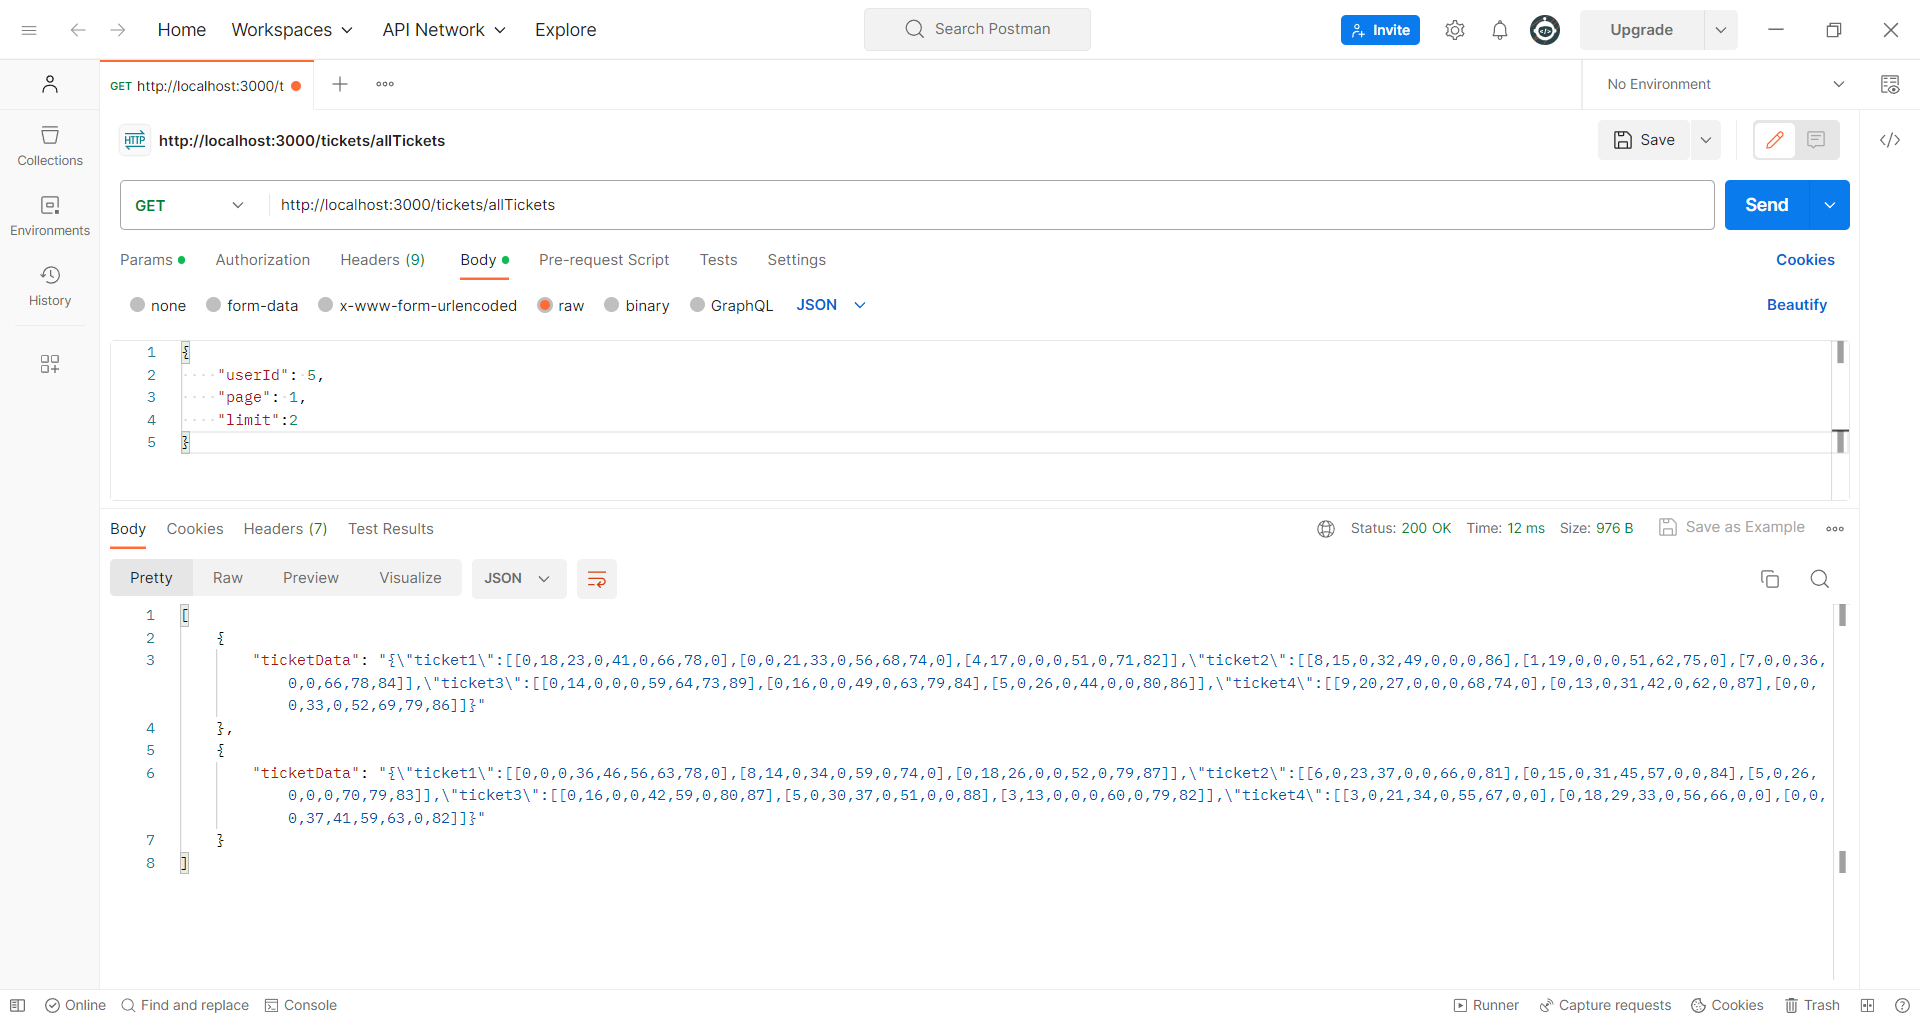
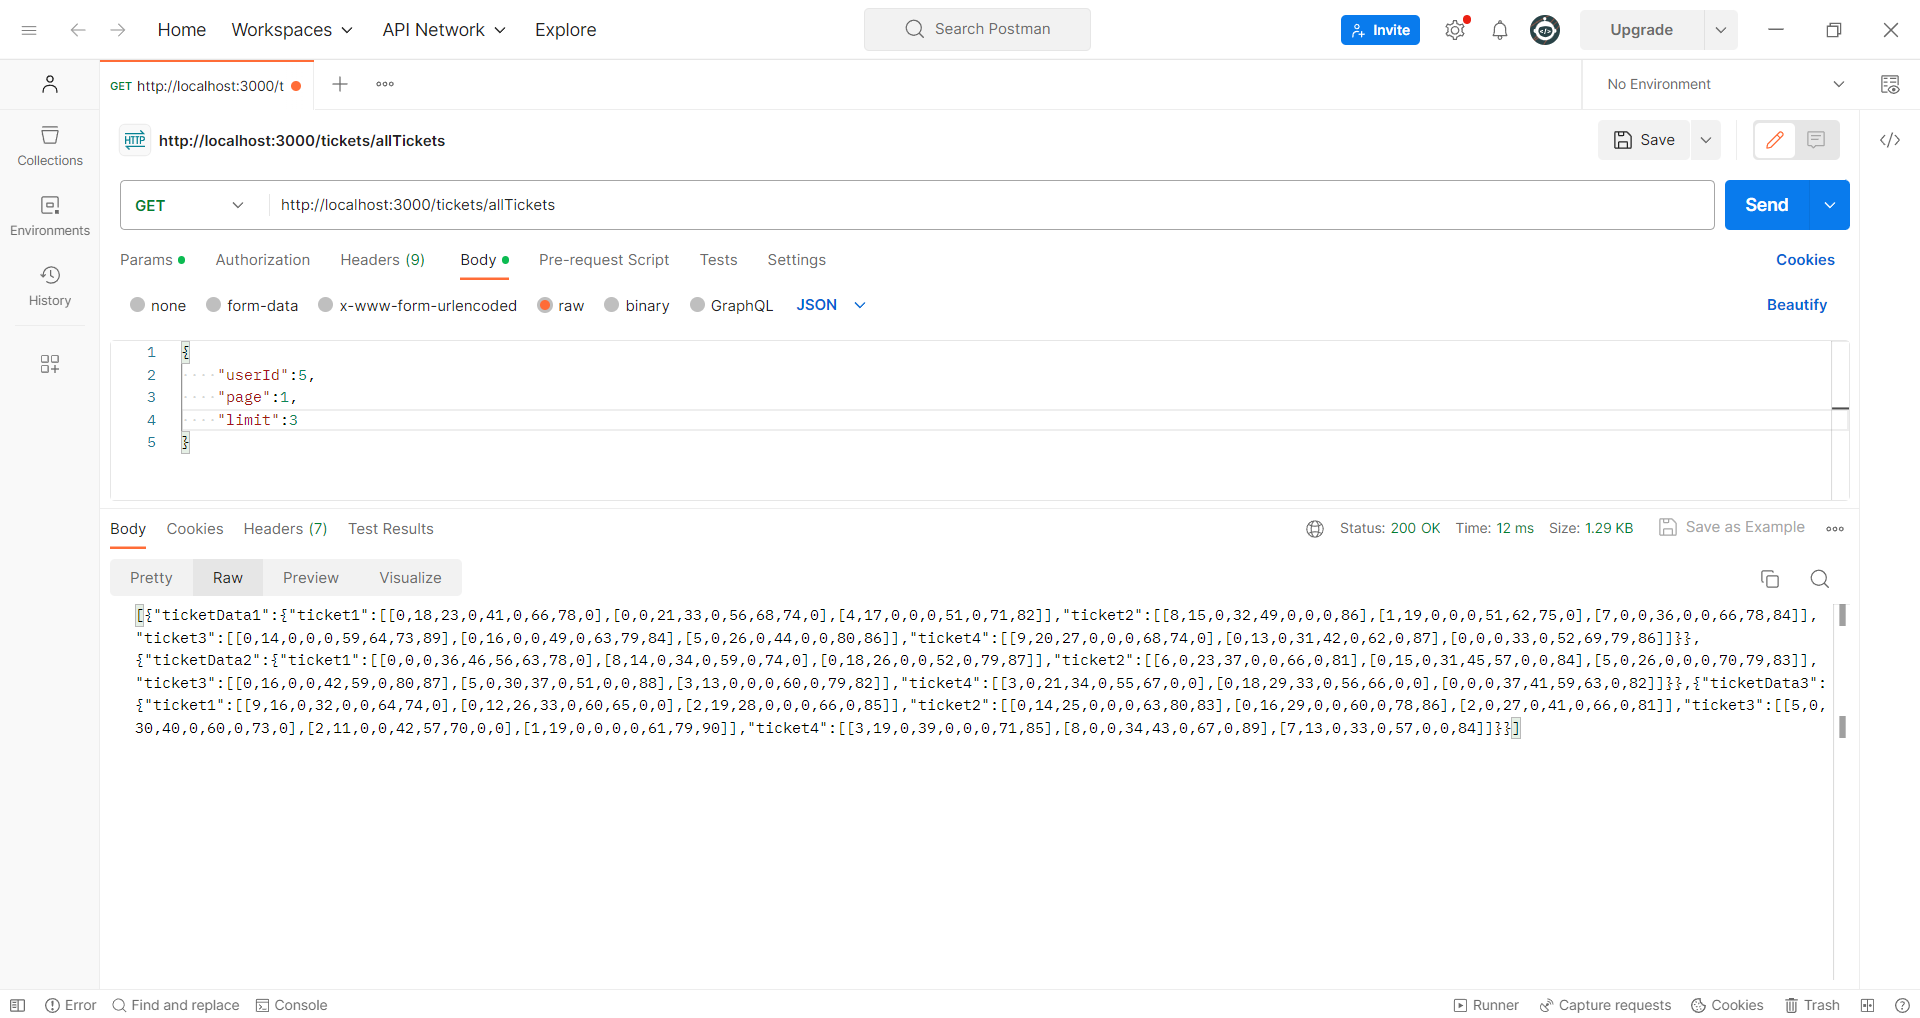
allTickets update

diff --git a/models/Tickets.js b/models/Tickets.js
@@ -32,9 +32,9 @@ exports.fetchAll = (id, page, limit, callback) => {
     if (err) {
       callback(err, null);
     } else {
-      const tickets = results.map((row) => {
+      const tickets = results.map((row, index) => {
         return {
-          ticketData: row.ticket_data,
+          [`ticketData${index + 1}`]: JSON.parse(row.ticket_data),
         };
       });
       callback(null, tickets);

diff --git a/controllers/ticketController.js b/controllers/ticketController.js
@@ -28,7 +28,6 @@ exports.createTicket = (req, res) => {
 
 // Fetch tickets controller
 exports.fetchTickets = (req, res) => {
-
   const id = req.body.userId;
   const page = req.body.page;
   const limit = req.body.limit;

diff --git a/README.md b/README.md
@@ -177,6 +177,6 @@ Request headers
 Response body 
 | Field        | Type     | Description              |
 |--------------|----------|--------------------------|
-| [{`ticketData`},{`ticketData`},..]    | JSON   | All tickets sepcific user has. |
+| [{`ticketData1`},{`ticketData2`},..]    | JSON   | All tickets sepcific user has. |
 
 <img src="img\alltickets.png">
